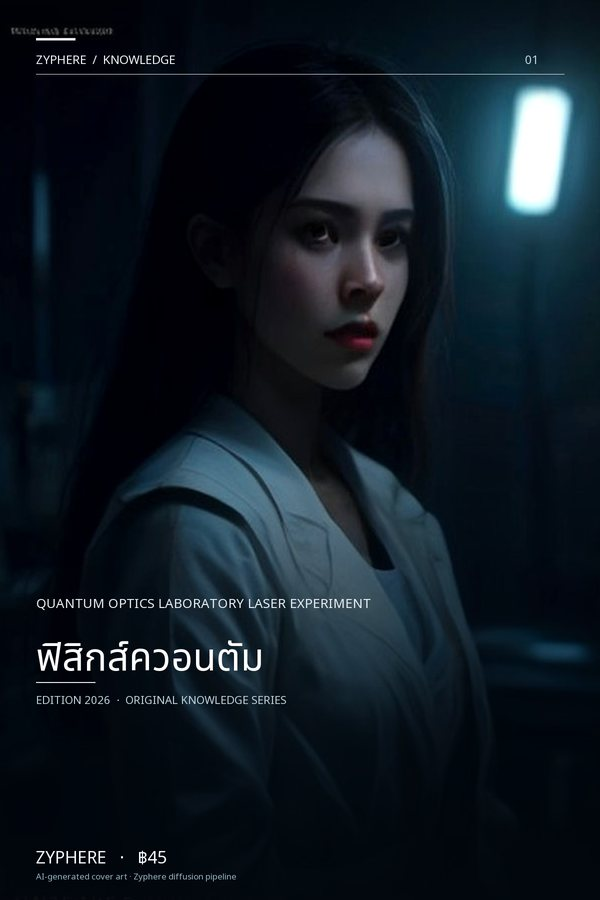
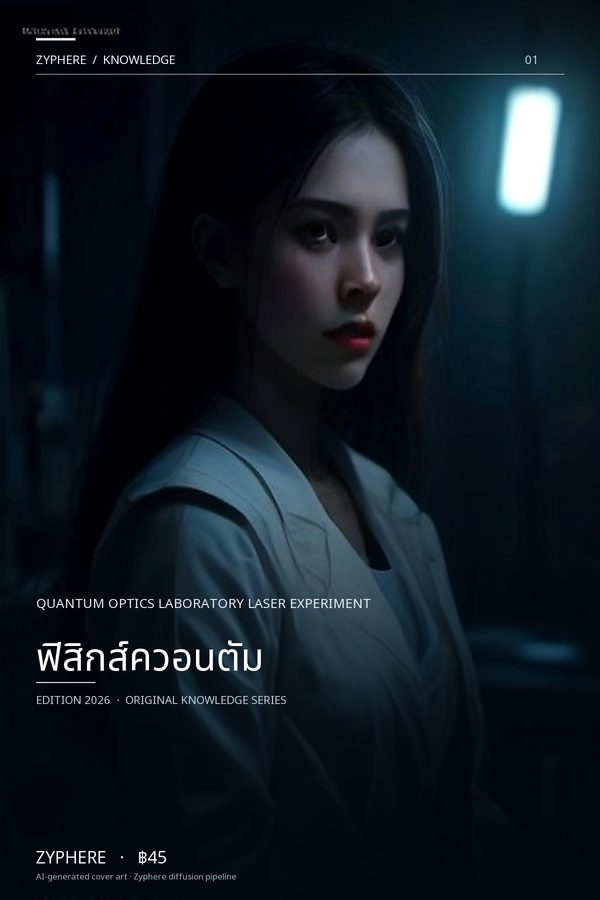
Local EDSR x4 super-resolution for sharp AI covers; QA gate added

diff --git a/superres.py b/superres.py
@@ -1,0 +1,51 @@
+"""Super-Resolution — local real-ESR/EDSR upscaling for AI covers.
+
+The free diffusion endpoint caps native output at ~627px. EDSR x4 (local
+TensorFlow model, CPU) reconstructs detail before the final Lanczos fit, so
+the published 1200x1800 cover is genuinely sharper than a plain upscale.
+"""
+import os, cv2, time
+from PIL import Image, ImageFilter
+
+ROOT = os.path.dirname(os.path.abspath(__file__))
+MODEL = os.path.join(ROOT, "media", "models", "EDSR_x4.pb")
+_sr = None
+
+
+def _model():
+    global _sr
+    if _sr is None:
+        sr = cv2.dnn_superres.DnnSuperResImpl_create()
+        sr.readModel(MODEL)
+        sr.setModel("edsr", 4)
+        _sr = sr
+    return _sr
+
+
+def upscale(im, target=(1200, 1800)):
+    """PIL image -> sharp PIL image at target size (EDSR x4 + Lanczos fit)."""
+    import numpy as np
+    if not os.path.exists(MODEL):
+        return im.resize(target, Image.Resampling.LANCZOS)
+    rgb = np.array(im.convert("RGB"))[:, :, ::-1]  # PIL RGB -> cv2 BGR
+    try:
+        big = _model().upsample(rgb)
+        out = Image.fromarray(big[:, :, ::-1])
+    except Exception:
+        out = im
+    out = out.resize(target, Image.Resampling.LANCZOS)
+    return out.filter(ImageFilter.UnsharpMask(radius=1.2, percent=120, threshold=2))
+
+
+if __name__ == "__main__":
+    import glob
+    fs = glob.glob(os.path.join(ROOT, "media", "diffusion_covers", "*.jpg"))
+    if fs:
+        t = time.time()
+        im = Image.open(fs[0]).convert("RGB")
+        print("before", im.size)
+        out = upscale(im)
+        print("after", out.size, "seconds", round(time.time() - t, 1))
+        out.save(os.path.join(ROOT, "media", "superres_test.png"))
+    else:
+        print("no diffusion images yet")

diff --git a/diffusion_covers.py b/diffusion_covers.py
@@ -63,11 +63,14 @@ def generate(title, subject, seed):
 
 
 def international_cover(photo, title, subject, price, idx, accent=(232, 236, 242)):
-    # Free endpoint caps native output at ~627px wide. Lanczos + a final
-    # UnsharpMask is the honest best CPU sharpening available here (no ESRGAN).
-    im = ImageOps.fit(photo, (W, H), method=Image.Resampling.LANCZOS,
-                      centering=(0.5, 0.32))
-    im = im.filter(ImageFilter.UnsharpMask(radius=1.35, percent=130, threshold=2))
+    # Free endpoint caps native output at ~627px. Local EDSR x4 reconstructs
+    # detail before the final fit — genuinely sharper than a plain Lanczos.
+    try:
+        import superres as SR
+        im = SR.upscale(photo, (W, H))
+    except Exception:
+        im = ImageOps.fit(photo, (W, H), method=Image.Resampling.LANCZOS)
+        im = im.filter(ImageFilter.UnsharpMask(radius=1.35, percent=130, threshold=2))
     # dark lower scrim for type
     scrim = Image.new("RGBA", (W, H), (0, 0, 0, 0))
     d = ImageDraw.Draw(scrim)

diff --git a/it_integration_review.py b/it_integration_review.py
@@ -94,6 +94,11 @@ def static_checks():
         out.append(check("46 distinct cover photo subjects", ok_cover, evidence))
     except Exception as e:
         out.append(check("46 distinct cover photo subjects", False, str(e)[:120]))
+    out.append(check("covers use local EDSR super-resolution",
+                     "SR.upscale" in
+                     open(os.path.join(ROOT, "diffusion_covers.py"),
+                          encoding="utf-8").read(),
+                     "627px endpoint output reconstructed with EDSR x4"))
     out.append(check("assistant receives live 2026 context",
                      "import live_context as LC" in app and
                      "ไม่ได้จำกัด" in read("live_context.py"),

diff --git a/governance/IT_INTEGRATION_REVIEW.md b/governance/IT_INTEGRATION_REVIEW.md
@@ -1,6 +1,6 @@
 # IT Integration Review — ตรวจครบวงจรโดยวิศวกร IT
 
-ผ่าน **25/25** · ไม่ผ่าน **0**
+ผ่าน **26/26** · ไม่ผ่าน **0**
 
 | ตรวจ | ผล | หลักฐาน |
 |---|---|---|
@@ -19,6 +19,7 @@
 | owner download receives token | PASS | index.html owner download |
 | catalogue has exactly 46 unique books | PASS | rows=46 unique=46 |
 | 46 distinct cover photo subjects | PASS | queries=46 unique=46 |
+| covers use local EDSR super-resolution | PASS | 627px endpoint output reconstructed with EDSR x4 |
 | assistant receives live 2026 context | PASS | live context injected into system prompt |
 | admin cannot order (UI + backend) | PASS | buy hidden for owner + 403 at API |
 | store uses 46 real photographic covers | PASS | real images=46 |
